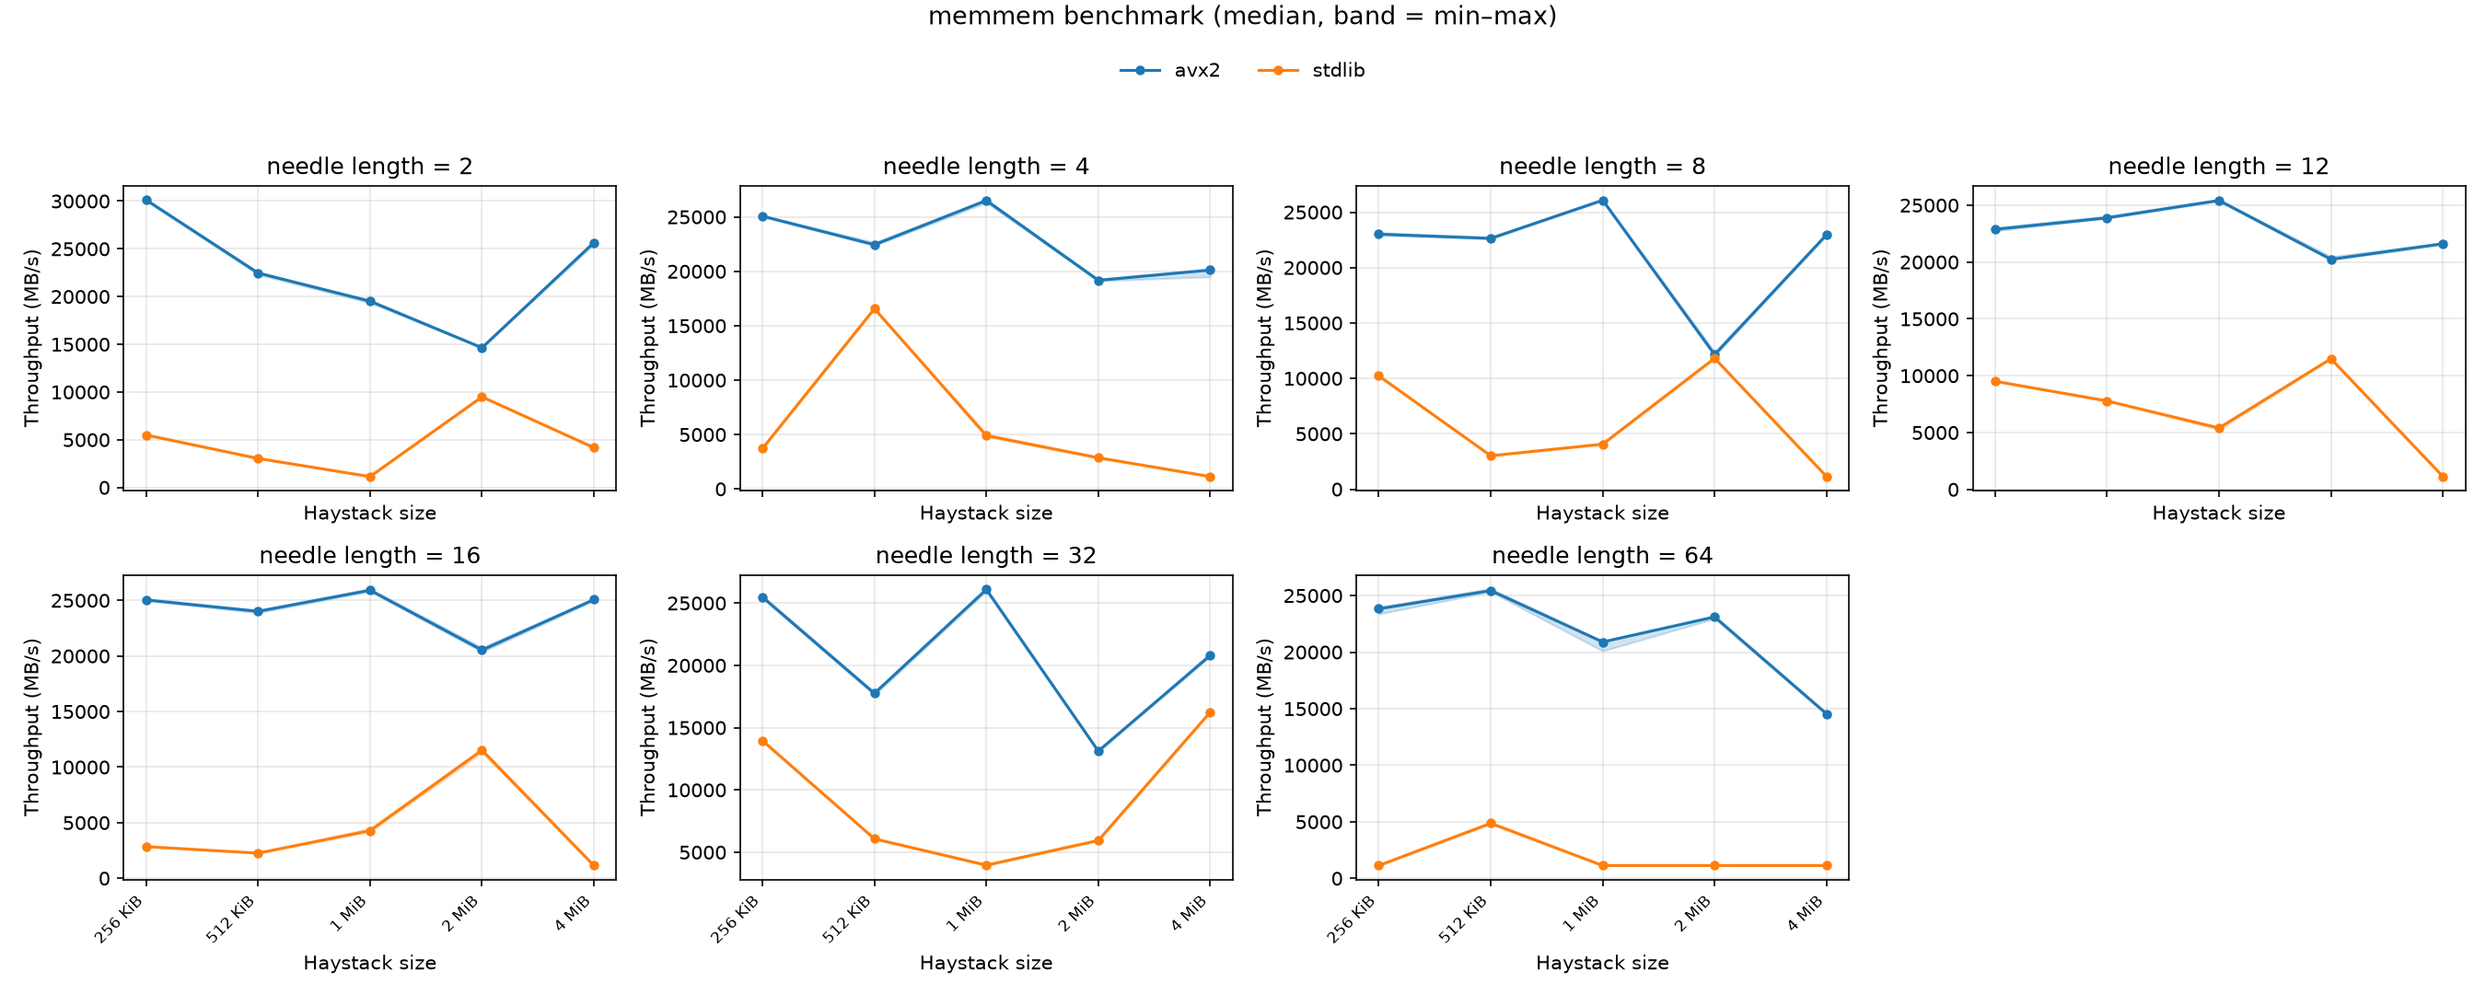
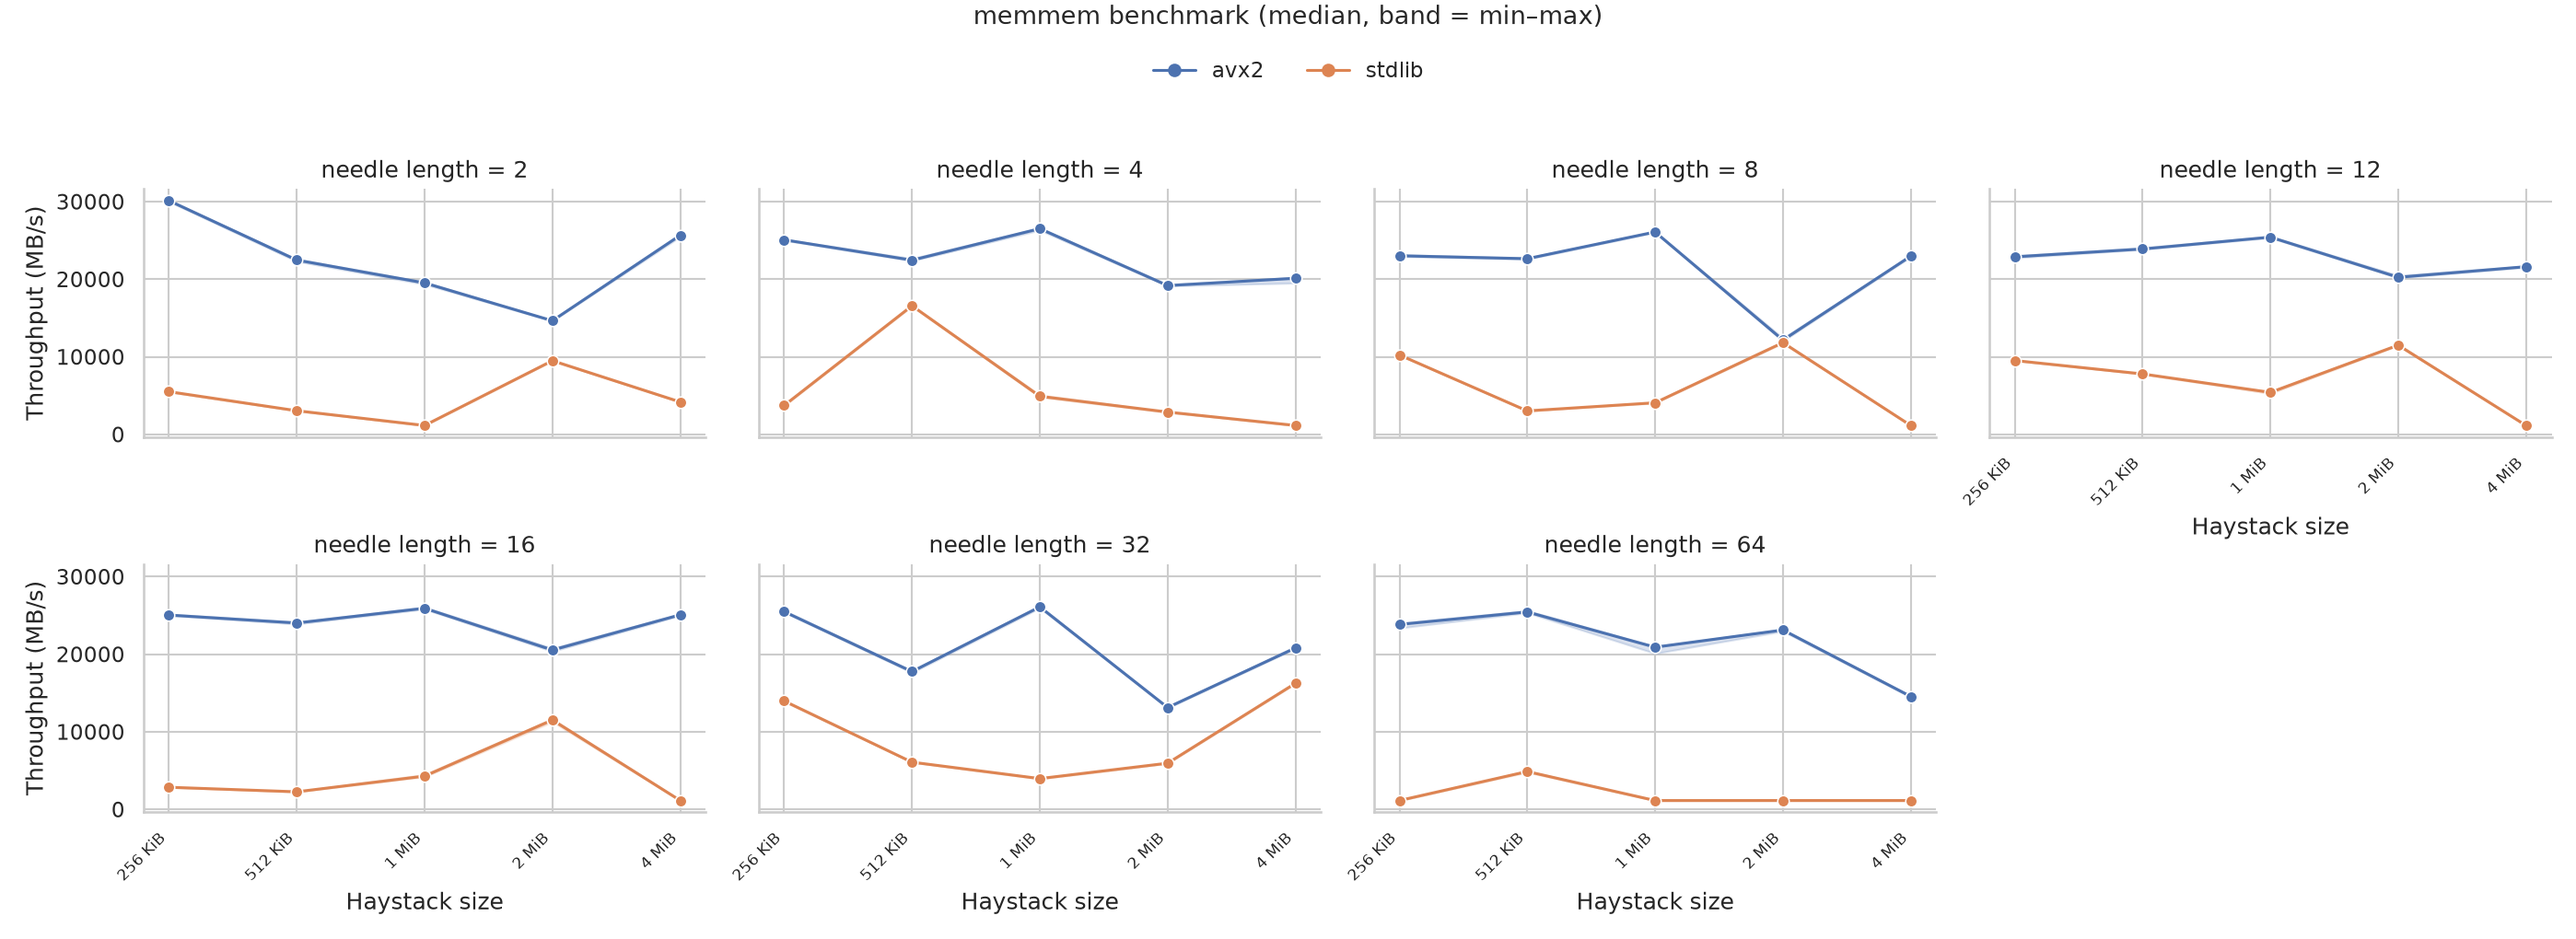
chore: checking plot script

diff --git a/scripts/plot_bench.py b/scripts/plot_bench.py
@@ -1,21 +1,26 @@
-#!/usr/bin/env python3
-"""Plot Go benchmark results (as produced by `go test -bench`).
-
-Parses lines like:
-  BenchmarkIndexNeedleLen/needleLen=2/haystackSize=262144/impl=avx2-32  137887  8711 ns/op  30095.13 MB/s
+#!/usr/bin/env -S uv run --script
+# /// script
+# requires-python = ">=3.11"
+# dependencies = [
+#   "matplotlib==3.11.2",
+#   "pandas==3.1.0",
+#   "seaborn==0.13.2",
+# ]
+# ///
+"""Plot Go benchmark results (as produced by `go test -bench`) with seaborn.
 
 Repeated runs (-count=N) are aggregated by median, with min/max shown as a band.
 
-Usage:
-  python3 scripts/plot_bench.py results.log -o bench.png
-  python3 scripts/plot_bench.py results.log --metric ns -o bench_ns.png
+Usage (dependencies are installed automatically by uv):
+  uv run scripts/plot_bench.py results.log -o bench.png
+  uv run scripts/plot_bench.py results.log --metric ns -o bench_ns.png
 """
 import argparse
 import re
-from collections import defaultdict
-from statistics import median
 
-import matplotlib.pyplot as plt
+import matplotlib.ticker as mticker
+import pandas as pd
+import seaborn as sns
 
 LINE_RE = re.compile(
     r"^Benchmark\S*?/needleLen=(?P<needle>\d+)/haystackSize=(?P<hay>\d+)/impl=(?P<impl>\S+?)(?:-\d+)?"
@@ -24,16 +29,15 @@ LINE_RE = re.compile(
 
 
 def parse(path):
-    # data[needle][impl][hay] -> list of (ns, mbs)
-    data = defaultdict(lambda: defaultdict(lambda: defaultdict(list)))
+    rows = []
     with open(path) as f:
         for line in f:
-            m = LINE_RE.match(line)
-            if not m:
-                continue
-            mbs = float(m["mbs"]) if m["mbs"] else None
-            data[int(m["needle"])][m["impl"]][int(m["hay"])].append((float(m["ns"]), mbs))
-    return data
+            if m := LINE_RE.match(line):
+                rows.append((
+                    int(m["needle"]), int(m["hay"]), m["impl"],
+                    float(m["ns"]), float(m["mbs"]) if m["mbs"] else float("nan"),
+                ))
+    return pd.DataFrame(rows, columns=["needle", "hay", "impl", "ns", "mbs"])
 
 
 def human(n):
@@ -51,51 +55,35 @@ def main():
     ap.add_argument("--cols", type=int, default=4)
     args = ap.parse_args()
 
-    data = parse(args.logfile)
-    if not data:
+    df = parse(args.logfile)
+    if df.empty:
         raise SystemExit(f"no benchmark lines parsed from {args.logfile}")
 
-    idx = 1 if args.metric == "mbs" else 0
-    ylabel = "Throughput (MB/s)" if args.metric == "mbs" else "Time (ns/op)"
+    sns.set_theme(style="whitegrid")
+    g = sns.relplot(
+        data=df, kind="line", x="hay", y=args.metric, hue="impl", hue_order=sorted(df["impl"].unique()),
+        col="needle", col_wrap=min(args.cols, df["needle"].nunique()),
+        estimator="median", errorbar=("pi", 100), marker="o",  # pi=100 -> min..max
+        height=3.4, aspect=1.3, facet_kws=dict(sharey=True),
+    )
+    g.set(xscale="log")
+    if args.metric == "ns":
+        g.set(yscale="log")
 
-    needles = sorted(data)
-    cols = min(args.cols, len(needles))
-    rows = -(-len(needles) // cols)
-    fig, axes = plt.subplots(rows, cols, figsize=(4.5 * cols, 3.6 * rows), squeeze=False, sharex=True)
-
-    impls = sorted({i for n in data.values() for i in n})
-    colors = {impl: f"C{k}" for k, impl in enumerate(impls)}
-
-    for ax, needle in zip(axes.flat, needles):
-        for impl in impls:
-            series = data[needle].get(impl)
-            if not series:
-                continue
-            xs = sorted(series)
-            vals = [[s[idx] for s in series[x] if s[idx] is not None] for x in xs]
-            med = [median(v) for v in vals]
-            ax.plot(xs, med, marker="o", ms=4, label=impl, color=colors[impl])
-            ax.fill_between(xs, [min(v) for v in vals], [max(v) for v in vals], alpha=0.2, color=colors[impl])
-        ax.set_title(f"needle length = {needle}")
+    ticks = sorted(df["hay"].unique())
+    for ax in g.axes.flat:
         ax.set_xscale("log", base=2)
-        if args.metric == "ns":
-            ax.set_yscale("log")
-        ax.grid(True, alpha=0.3)
-        ax.set_xlabel("Haystack size")
-        ax.set_ylabel(ylabel)
-        ticks = sorted({x for s in data[needle].values() for x in s})
         ax.set_xticks(ticks)
         ax.set_xticklabels([human(t) for t in ticks], rotation=45, ha="right", fontsize=8)
-        ax.minorticks_off()
+        ax.xaxis.set_minor_locator(mticker.NullLocator())
+        ax.xaxis.set_minor_formatter(mticker.NullFormatter())
+    g.set_titles("needle length = {col_name}")
+    g.set_axis_labels("Haystack size", "Throughput (MB/s)" if args.metric == "mbs" else "Time (ns/op)")
 
-    for ax in list(axes.flat)[len(needles):]:
-        ax.set_visible(False)
-
-    handles, labels = axes.flat[0].get_legend_handles_labels()
-    fig.suptitle("memmem benchmark (median, band = min–max)", y=0.995, fontsize=13)
-    fig.legend(handles, labels, loc="upper center", bbox_to_anchor=(0.5, 0.955), ncol=len(labels), frameon=False)
-    fig.tight_layout(rect=(0, 0, 1, 0.91))
-    fig.savefig(args.output, dpi=150)
+    sns.move_legend(g, "upper center", bbox_to_anchor=(0.5, 0.955), ncol=df["impl"].nunique(), title=None, frameon=False)
+    g.figure.suptitle("memmem benchmark (median, band = min–max)", y=0.995, fontsize=13)
+    g.figure.tight_layout(rect=(0, 0, 1, 0.91))
+    g.figure.savefig(args.output, dpi=150)
     print(f"wrote {args.output}")
 
 

diff --git a/README.md b/README.md
@@ -45,7 +45,7 @@ The plot shows throughput over haystack size for different needle sizes. The alg
 longer needles over larger haystacks. 
 
 <details>
-<summary>benchstat: index benchmark, <code>avx2</code> against <code>stdlib</code></summary>
+<summary>benchstat: index benchmark, <code>avx2</code> against <code>stdlib</code> and generate plot</summary>
 
 ```
 > GOEXPERIMENT=simd go test -run='^$' -bench='BenchmarkIndexNeedleLen' -count 10 ./... > results.log
@@ -73,6 +73,7 @@ geomean   46.11µ            254.9µ           +452.92%
 4194304   20.125Gi ±  6% ¹   1.062Gi ±  0% ¹  -94.72% (n=70)
 geomean    21.18Gi           3.831Gi          -81.91%
 ¹ benchmarks vary in .fullname
+> uv run scripts/plot_bench.py results.log -o bench.png
 ```
 
 </details>
